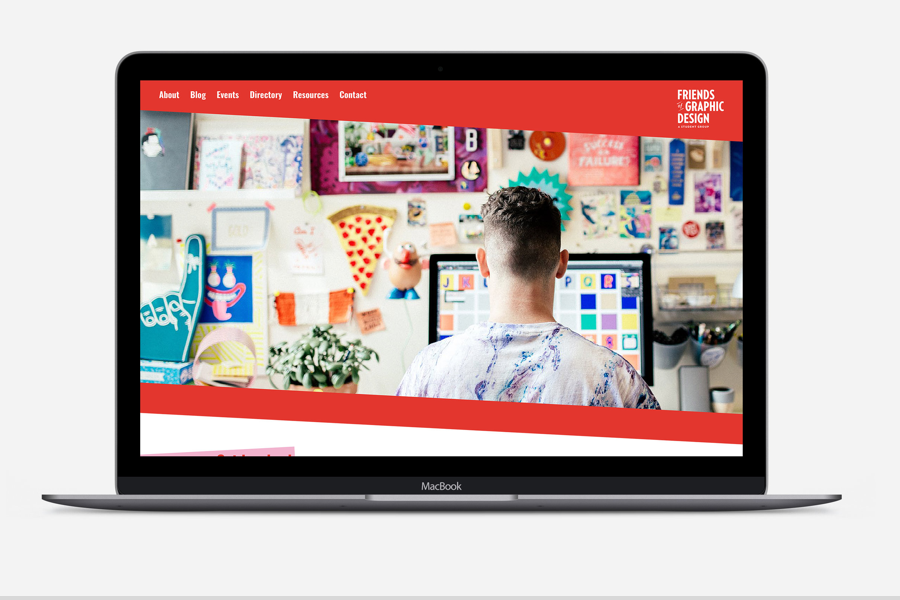
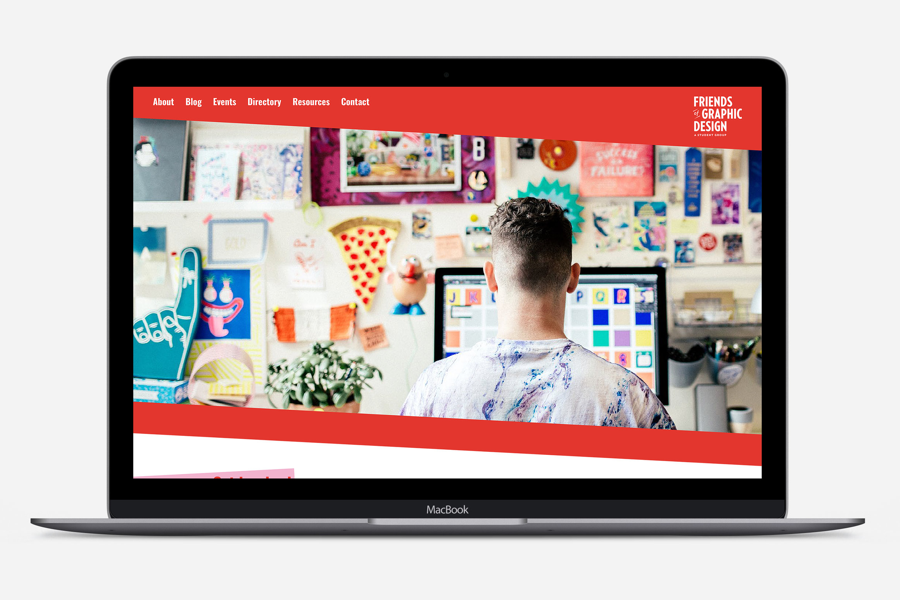
Fix flexbox wrap issue with sixth project
Moved sixth project to the 4th child so that it will
wrap underneath fourth project instead of bumping to
a new line. Added padding to bottom of divs (except
last child) to retain the grid spacing.

diff --git a/index.html b/index.html
@@ -40,7 +40,7 @@
 
         <header>
             <div class="intro">
-                <p>Hi there! I'm Tricia Leach, a creative developer  and designer in Portland, OR. I'm currently seeking a full-time front-end developer role within a stellar team. Is this you?</p>
+                <p>Hi there! I'm Tricia Leach, a creative developer and designer in Portland, OR. I'm currently seeking a full-time front-end developer role within a stellar team. Is this you?</p>
                 <p>ps — Here's a little more <a href="about/">about me.</a></p>
             </div>
         </header>
@@ -49,12 +49,26 @@
 <!-- - - - - - - - - - - - - - - - CONTENT - - - - - - - - - - - - - - - -->
     
     <main>
-        <div class="project"><img src="img/earthquake_prep.png" alt="earthquake prep cover"></div>
-        <div class="project"><img src="img/mars.png" alt="Mars travel poster"></div>
-        <div class="project"><img src="img/behonest.png" alt="Be Honest promo"></div>
-        <div class="project"><img src="img/fogd-website.png" alt="Friends of Graphic Design website"></div>
-        <div class="project"><img src="img/time_travel_app.png" alt="Time travel app mockup"></div>
-        <div class="project"><img src="img/creative_coding.png" alt="Creative coding example"></div>
+        <div class="project">
+            <img src="img/earthquake_prep.png" alt="earthquake prep cover">
+        </div>
+        <div class="project">
+            <img src="img/mars.png" alt="Mars travel poster">
+        </div>
+        <div class="project">
+            <img src="img/behonest.png" alt="Be Honest promo">
+        </div>
+        <div class="project">
+            <div class="project1">
+                <img src="img/fogd-website.png" alt="Friends of Graphic Design website">
+            </div>
+            <div class="project1" style="background-color:red">
+                <img src="img/creative_coding.png" alt="Creative coding example">
+            </div>
+        </div>
+        <div class="project">
+            <img src="img/time_travel_app.png" alt="Time travel app mockup">
+        </div>
     </main>
            
 <!-- - - - - - - - - - - - - - - - FOOTER - - - - - - - - - - - - - - - -->

diff --git a/scss/styles.scss b/scss/styles.scss
@@ -15,19 +15,6 @@ $breakpoint1: 0px;
 $breakpoint2: 400px;
 $breakpoint3: 960px;
 //
-$gutter_width_half: 1.945%;
-$gutter_width: 3.89%;
-$col_width_1: 6.5%;
-$col_width_2: 16.89%;
-$col_width_3: 27.28%;
-$col_width_4: 37.67%;
-$col_width_5: 48.06%;
-$col_width_6: 58.45%;
-$col_width_7: 79.73%;
-$col_width_8: 83.12%;
-$col_width_9: 93.51%;
-$col_width_10: 100%;
-//
 $grid_margin_half: 15px;
 $grid_margin: 30px;
 
@@ -63,7 +50,8 @@ body {
 }
 
 img, embed, object, video {
-    max-width: 100%
+    max-width: 100%;
+    display: block;
 }
 
 
@@ -72,7 +60,7 @@ img, embed, object, video {
 .nav_container {
     position: fixed;
     top: .5rem;
-    left: 1rem;
+    left: 1.2rem;
     transform-origin: bottom left;
     transform: rotate(90deg);
     letter-spacing: .1rem;
@@ -161,7 +149,7 @@ a:visited {
         display: flex;
         flex-wrap: wrap;
 
-        div {
+        > div {
             margin: 15px;
         }
 
@@ -179,15 +167,16 @@ a:visited {
 
         .project:nth-child(4) {
             width: calc(60% - 30px);
+
+            >div:not(:last-child) {
+                padding-bottom: $grid_margin;
+            }
         }
 
         .project:nth-child(5) {
             width: calc(40% - 30px);
         }
 
-        .project:nth-child(6) {
-            width: calc(60% - 30px);
-        }
     }
 }
 

diff --git a/styles/main.css b/styles/main.css
@@ -35,13 +35,14 @@ body {
 
 img, embed, object, video {
   max-width: 100%;
+  display: block;
 }
 
 /* - - - - - - - - - - NAVIGATION - - - - - - - - - - */
 .nav_container {
   position: fixed;
   top: .5rem;
-  left: 1rem;
+  left: 1.2rem;
   transform-origin: bottom left;
   transform: rotate(90deg);
   letter-spacing: .1rem;
@@ -109,7 +110,7 @@ a:visited {
     display: flex;
     flex-wrap: wrap;
   }
-  main div {
+  main > div {
     margin: 15px;
   }
   main .project:nth-child(1) {
@@ -124,11 +125,11 @@ a:visited {
   main .project:nth-child(4) {
     width: calc(60% - 30px);
   }
+  main .project:nth-child(4) > div:not(:last-child) {
+    padding-bottom: 30px;
+  }
   main .project:nth-child(5) {
     width: calc(40% - 30px);
-  }
-  main .project:nth-child(6) {
-    width: calc(60% - 30px);
   }
 }
 /* - - - - - - - - - - FOOTER - - - - - - - - - - */
